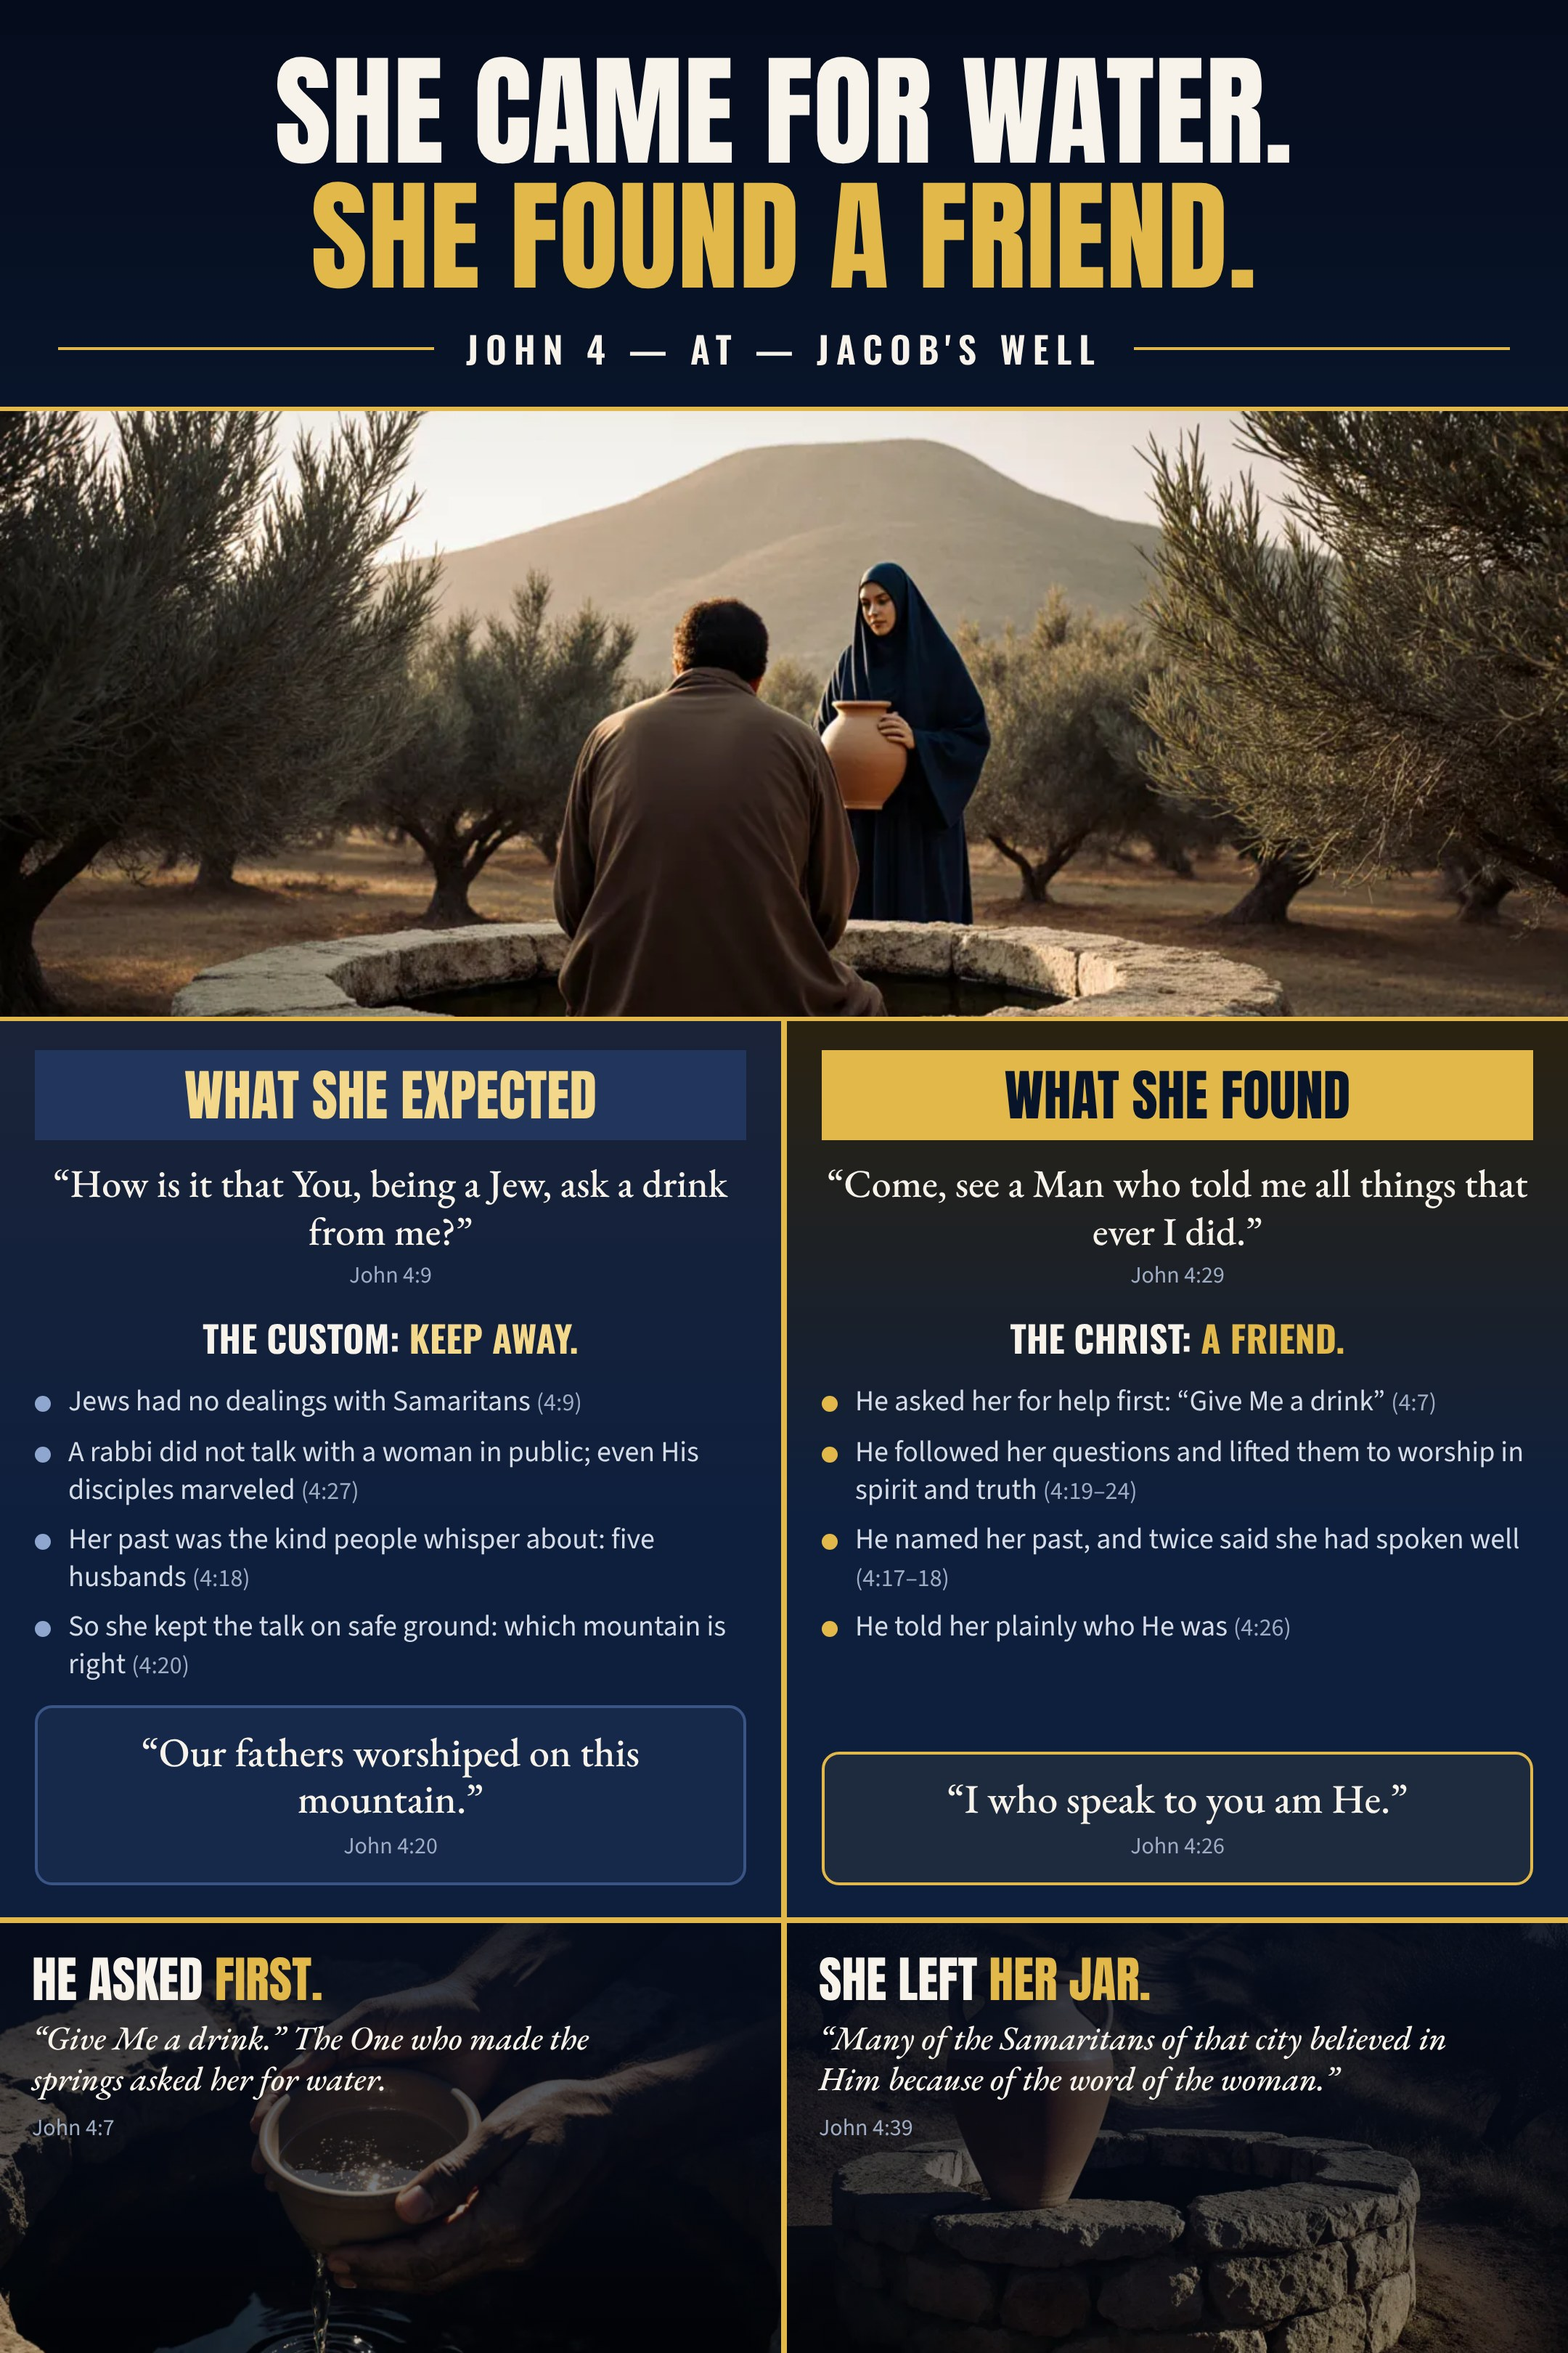
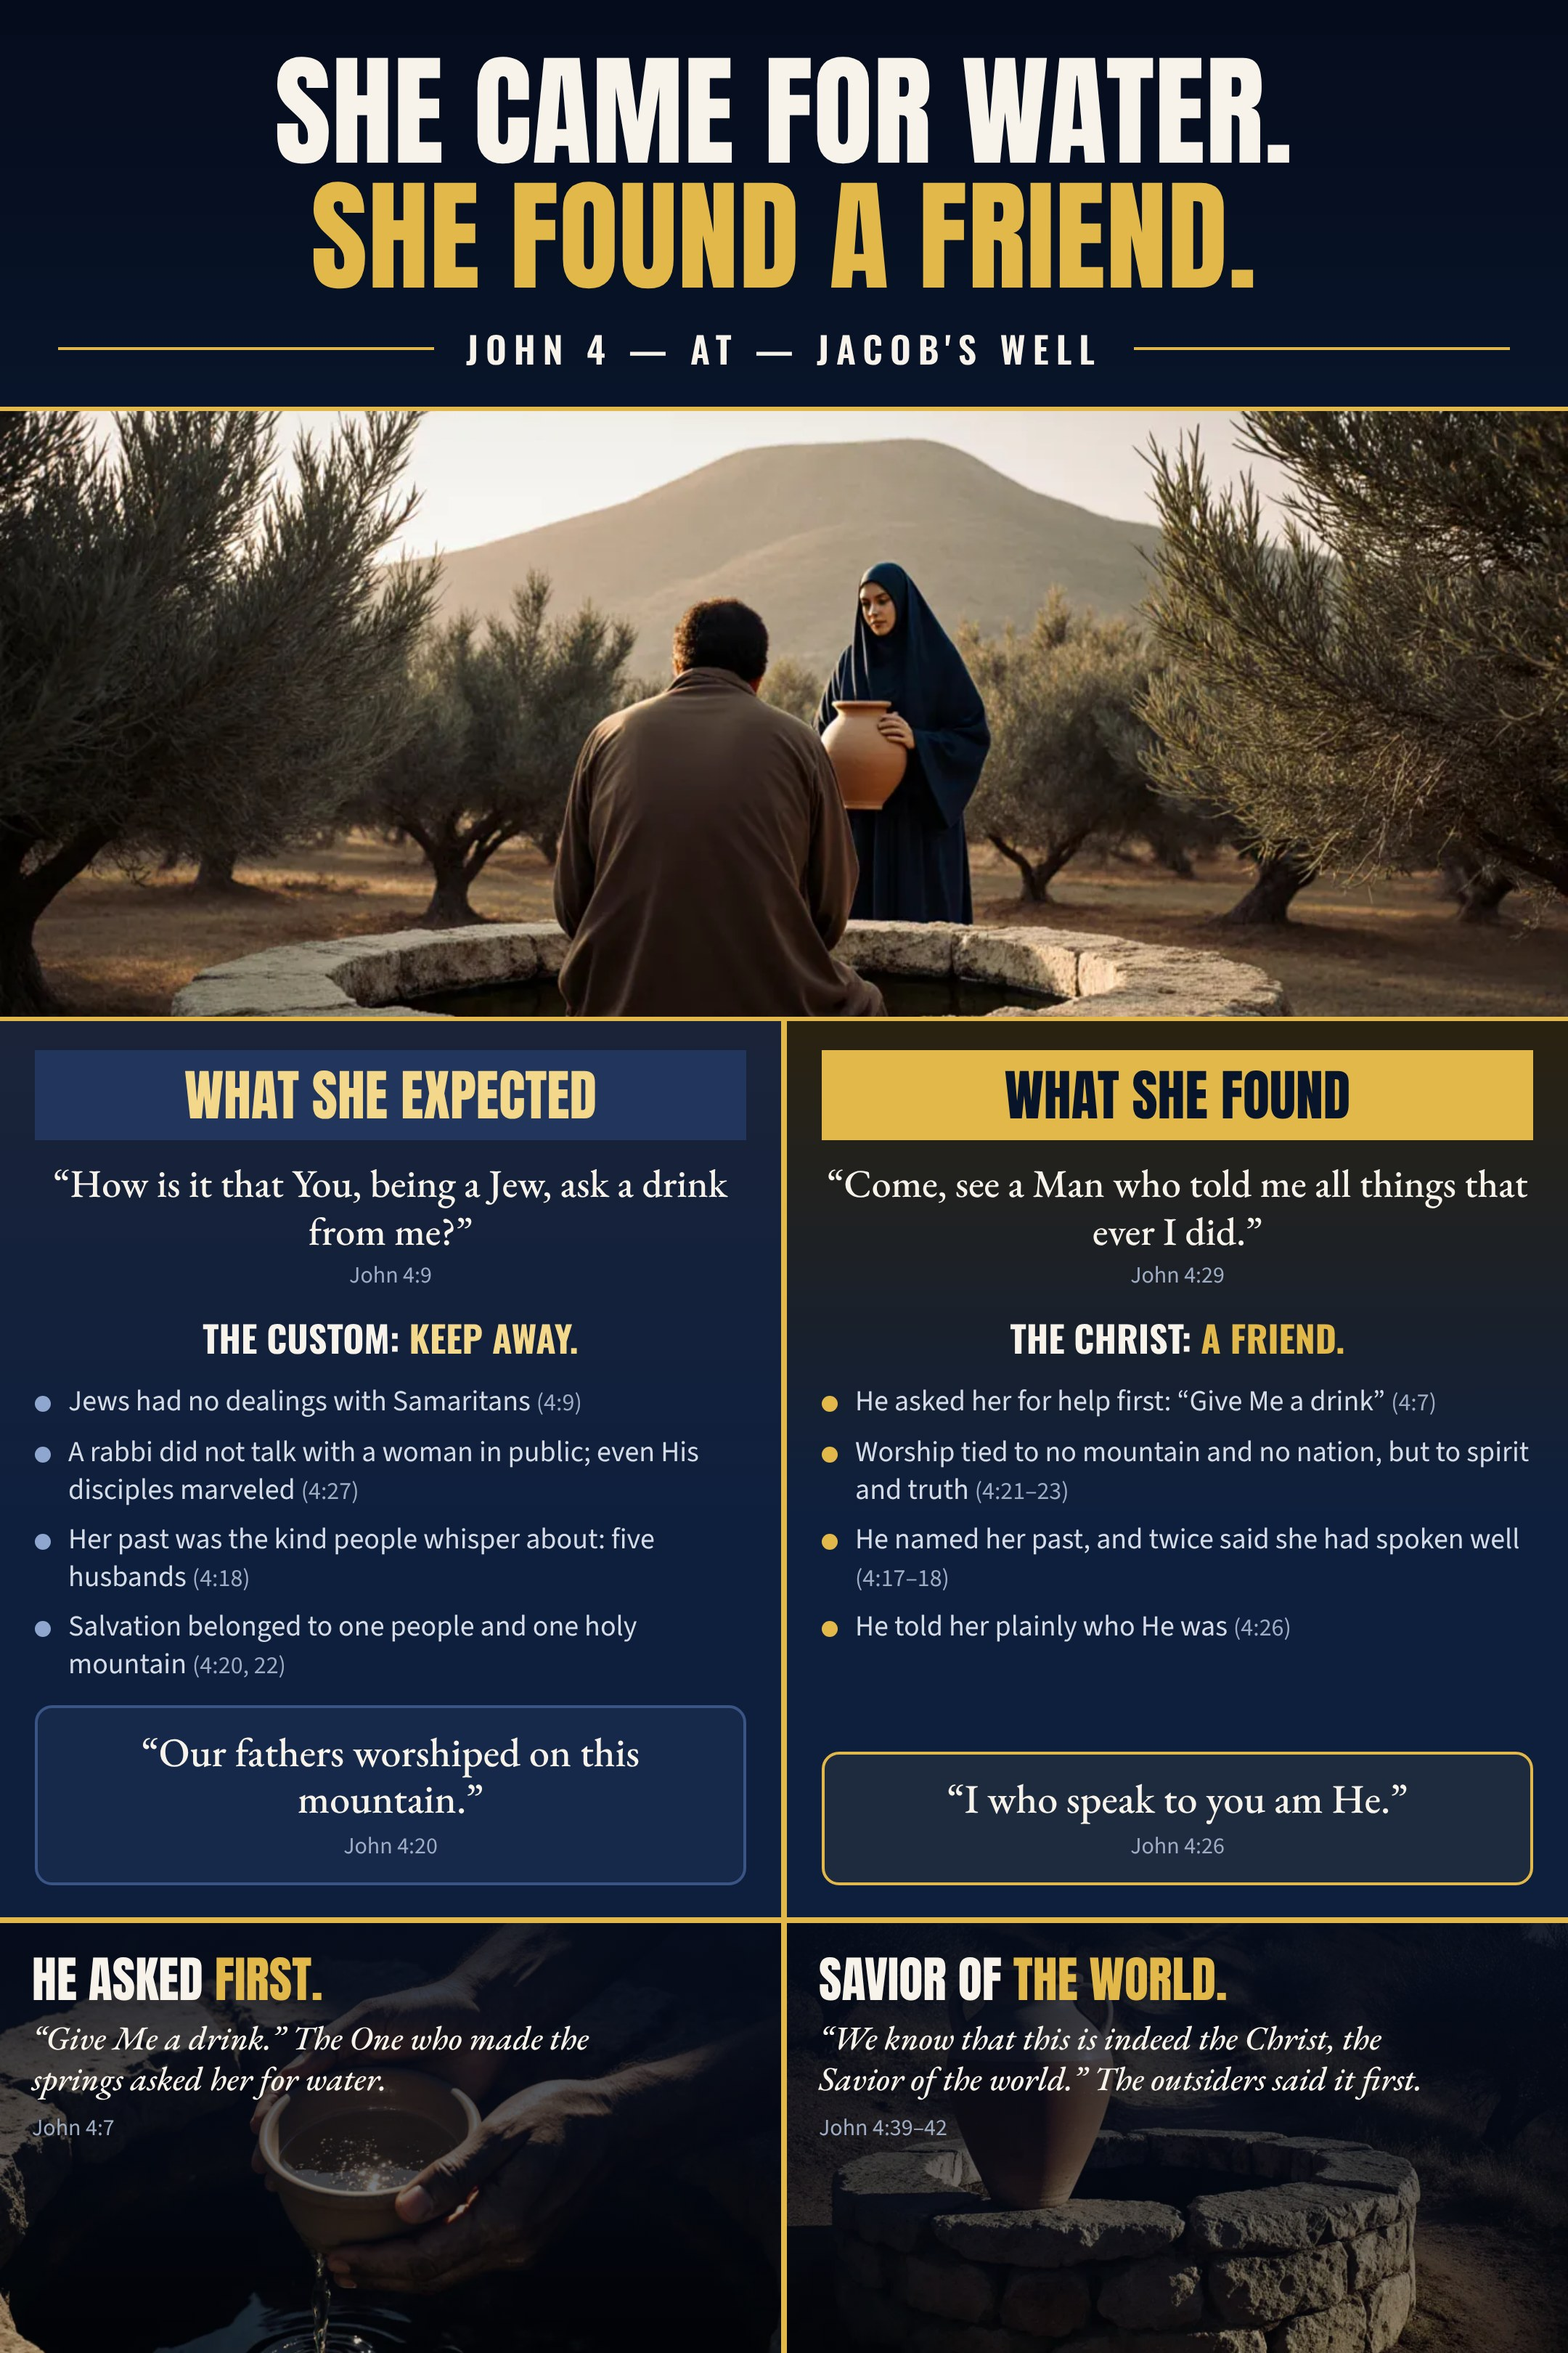
Theology hub: woman at the well now ends on Savior of the world (John 4:42)
Claude-Session: https://claude.ai/code/session_01PeU8KEgEfycbnL5cp2htAq

diff --git a/theology/index.html b/theology/index.html
@@ -157,7 +157,7 @@ const CARDS = [
     shelf: "texts-reconsidered",
     title: "She Found a Friend",
     subtitle: "The woman at the well, John 4",
-    blurb: "She expected contempt. He asked her for a drink, told her the truth without shaming her, and trusted her with who He was.",
+    blurb: "She expected contempt. He asked her for a drink, told her the truth without shaming her, and her whole town came to call Him the Savior of the world.",
     format: "Infographic",
     date: "Oct 2026",
     thumb: "img/woman-at-the-well.jpg",
